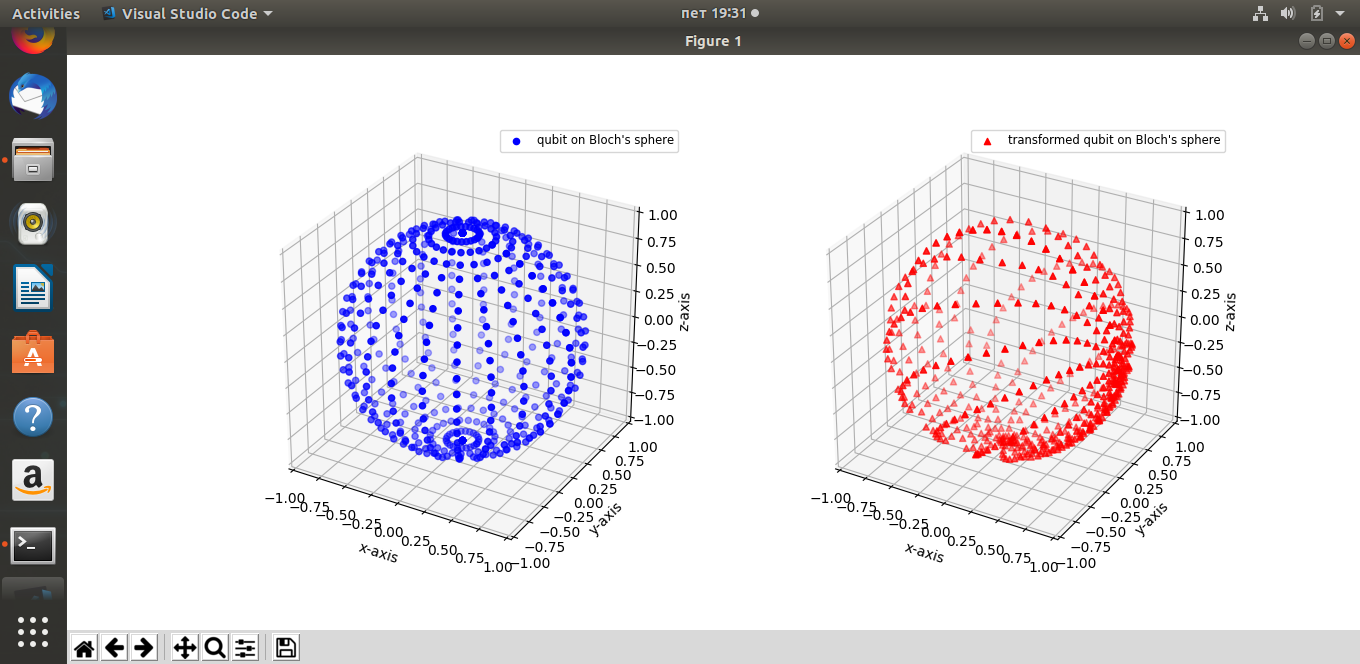
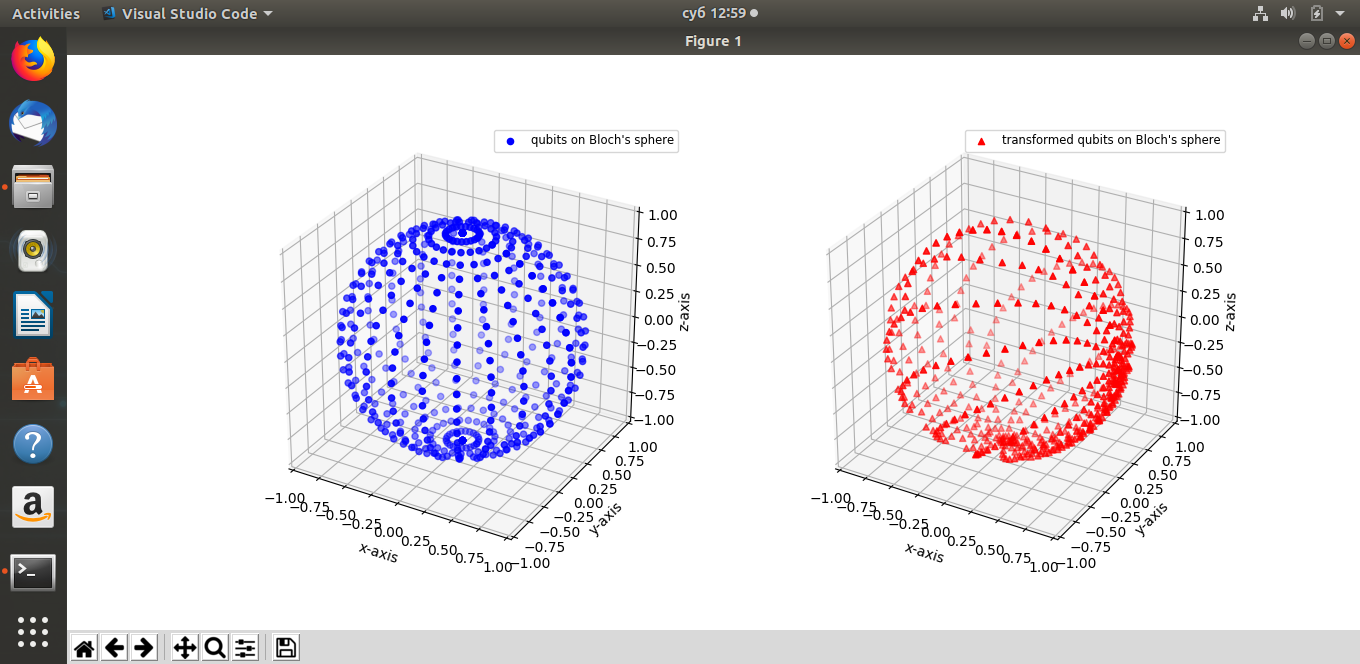
legend fix

diff --git a/plot_sphere.py b/plot_sphere.py
@@ -13,7 +13,7 @@ def main():
     ax = fig.add_subplot(121, projection='3d')
 
     qubit_sphere = QubitBloch.create_sphere(num=576)
-    QubitBloch.qscatter(qubit_sphere, ax, labelq='qubit on Bloch\'s sphere')
+    QubitBloch.qscatter(qubit_sphere, ax, labelq='qubits on Bloch\'s sphere')
 
     ax.set_zlim(-1, 1)
     ax.set_xlim(-1, 1)
@@ -28,7 +28,8 @@ def main():
     # transformed qubit Bloch
     ax_t = fig.add_subplot(122, projection='3d')
     qsphere_transformed = qfourier(qubit_sphere)
-    QubitBloch.qscatter(qsphere_transformed, ax_t, colorq='r', markerq='^', labelq='transformed qubit on Bloch\'s sphere')
+    QubitBloch.qscatter(qsphere_transformed, ax_t, colorq='r', markerq='^', \
+        labelq='transformed qubits on Bloch\'s sphere')
 
     ax_t.set_zlim(-1, 1)
     ax_t.set_xlim(-1, 1)

diff --git a/plot_cpl_qub.py b/plot_cpl_qub.py
@@ -14,7 +14,7 @@ def main():
 
     plt.figure(1)
 
-    # Reprezentacija komplkesnih brojeva
+    # complex, transformed complex
     plt.subplot(121)
     plt.xlabel('real')
     plt.ylabel('imag')
@@ -22,7 +22,7 @@ def main():
     Complex.plot(complex_transformed, 'r^', 'transformed complex numbers')
     plt.legend(loc='upper center', fontsize='small', bbox_to_anchor=(0.5, 1.111))
 
-    # Reprezentacija kjubita
+    # qubit, transformed qubit
     plt.subplot(122)
     plt.xlabel('real')
     plt.ylabel('imag')

diff --git a/quantum_fourier.py b/quantum_fourier.py
@@ -291,7 +291,7 @@ class Complex:
 
     @classmethod
     def create_circle(self, center=(0, 0), radius=1, num=50):
-        return [Complex(radius * np.cos(phi), radius* np.sin(phi)) \
+        return [Complex(center[0] + radius * np.cos(phi), center[1] + radius * np.sin(phi)) \
             for phi in np.linspace(0, 2 * np.pi, num, endpoint=False)]
 
     @classmethod
@@ -599,4 +599,3 @@ def qfourier(list_param):
         raise TypeError('unsupported type for QFT')
 
     return transformed
-
